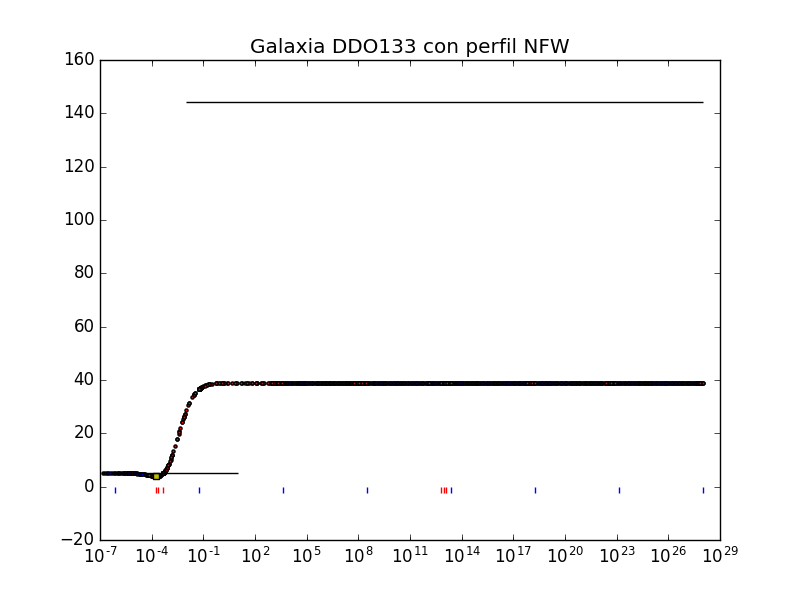
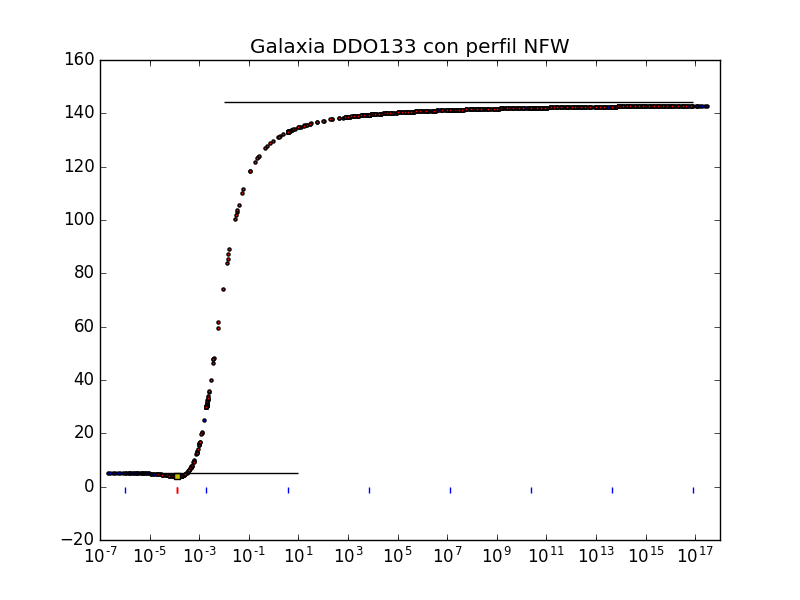
Fixing problems with NFW velocity // Correcting NFW graphics

diff --git a/commonFunctions.py b/commonFunctions.py
@@ -46,7 +46,7 @@ def v(x, s, model):
     elif model == 'NFW':
         #print("x_NFW = ", x)
         #print("s_NFW = ", s)
-        v = np.sqrt(4 * np.pi * (np.log(1 + np.outer(x, s) / np.outer(x, np.ones(len(s))) - np.outer(np.ones(len(x)), s)
+        v = np.sqrt(4 * np.pi * (np.log(1 + np.outer(x, s)) / np.outer(x, np.ones(len(s))) - (np.outer(np.ones(len(x)), s)
                                         / (1 + np.outer(x, s)))))
         # aux = sqrt(4 * pi * (log(1 + x * s). / (x * ones(size(s))) - (ones(size(x)) * s). / (1 + x * s)));
         # aux=sqrt(4*pi*(log(1+x*s)./(x*ones(size(s)))-(ones(size(x))*s)./(1+x*s)));
